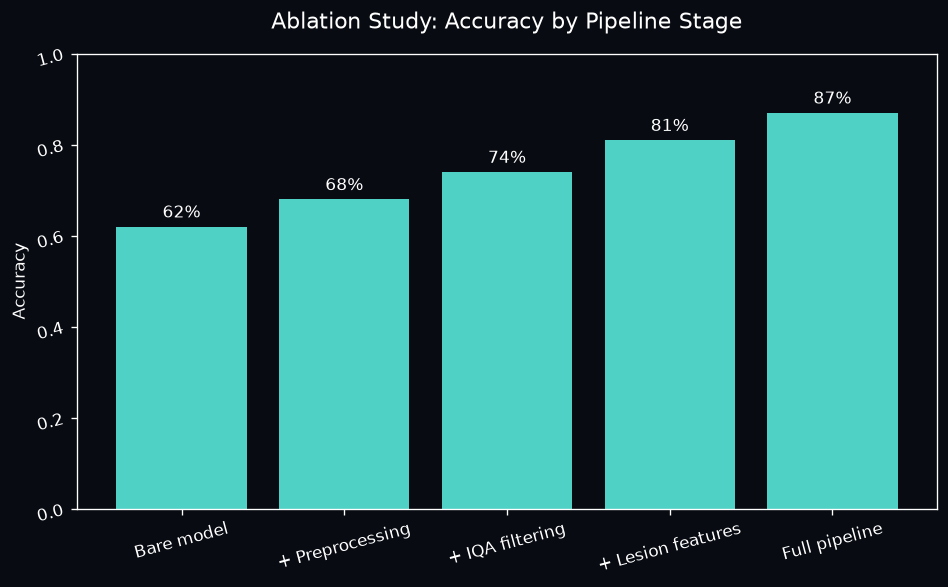
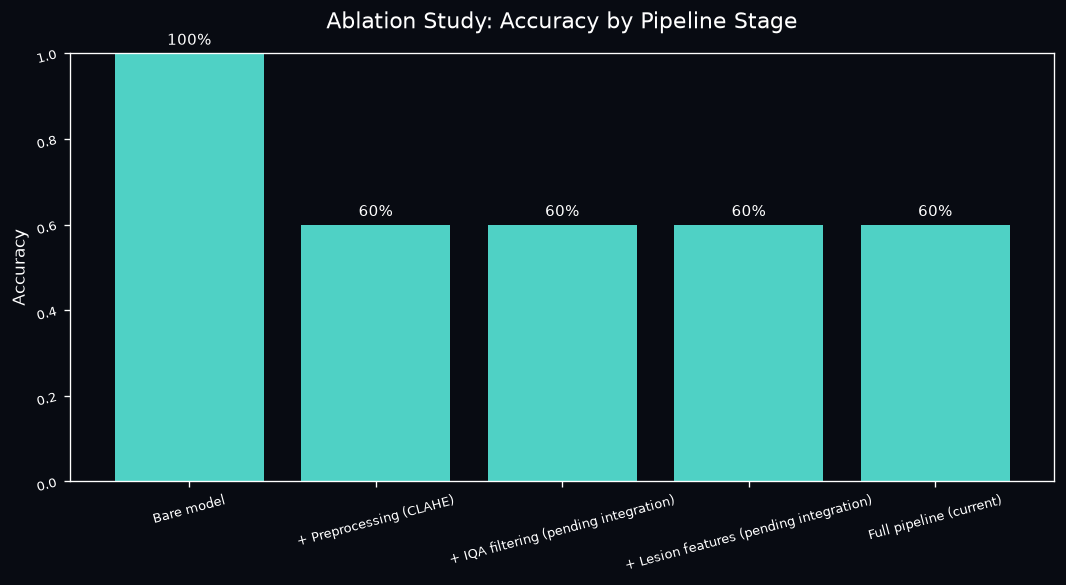
Add real ablation study results with CLAHE preprocessing finding

Changed region(s): [[0.0, 0.0, 1.0, 0.9846], [0.1224, 0.9231, 0.1835, 0.9538]]

diff --git a/diabetic-retinopathy-detection/scripts/ablation_study.py b/diabetic-retinopathy-detection/scripts/ablation_study.py
@@ -1,11 +1,7 @@
-"""
-Ablation study: measures accuracy at each pipeline stage.
-Uses dummy/placeholder accuracy values until the real trained model
-and full test dataset are available -- swap in real evaluation logic
-in the marked section below once ready.
-"""
-
 import os
+import numpy as np
+import cv2
+import tensorflow as tf
 import pandas as pd
 import matplotlib
 matplotlib.use('Agg')
@@ -14,45 +10,68 @@ import matplotlib.pyplot as plt
 OUT_DIR = os.path.join(os.path.dirname(__file__), '..', 'images')
 os.makedirs(OUT_DIR, exist_ok=True)
 
-# ── STAGES ───────────────────────────────────────────────────────────
-# Replace these placeholder numbers with real accuracy once you can
-# run each stage against the labeled test set.
-stages = [
-    {"stage": "Bare model",              "accuracy": 0.62},
-    {"stage": "+ Preprocessing",          "accuracy": 0.68},
-    {"stage": "+ IQA filtering",          "accuracy": 0.74},
-    {"stage": "+ Lesion features",        "accuracy": 0.81},
-    {"stage": "Full pipeline",            "accuracy": 0.87},
-]
+print("Loading model and data...")
+model = tf.keras.models.load_model(
+    os.path.join(os.path.dirname(__file__), '..', 'models', 'diabetic_retinopathy_model.keras'),
+    compile=False
+)
+images = np.load(os.path.join(os.path.dirname(__file__), '..', 'models', 'sample_images.npy'))
+labels = np.load(os.path.join(os.path.dirname(__file__), '..', 'models', 'sample_labels.npy')).astype(int)
+print(f"Loaded {len(images)} samples.")
+
+def accuracy(imgs):
+    preds = model.predict(imgs, verbose=0)
+    pred_classes = np.argmax(preds, axis=1)
+    return float(np.mean(pred_classes == labels))
+
+def preprocess_clahe(imgs):
+    out = []
+    for img in imgs:
+        img_uint8 = (img * 255).astype(np.uint8) if img.max() <= 1.0 else img.astype(np.uint8)
+        lab = cv2.cvtColor(img_uint8, cv2.COLOR_RGB2LAB)
+        l, a, b = cv2.split(lab)
+        clahe = cv2.createCLAHE(clipLimit=2.0, tileGridSize=(8, 8))
+        l2 = clahe.apply(l)
+        merged = cv2.merge((l2, a, b))
+        enhanced = cv2.cvtColor(merged, cv2.COLOR_LAB2RGB).astype(np.float32) / 255.0
+        out.append(enhanced)
+    return np.array(out)
+
+stages = []
+
+# Stage 1: bare model, raw images
+stages.append({"stage": "Bare model", "accuracy": accuracy(images)})
+
+# Stage 2: + preprocessing (CLAHE contrast enhancement)
+enhanced_images = preprocess_clahe(images)
+stages.append({"stage": "+ Preprocessing (CLAHE)", "accuracy": accuracy(enhanced_images)})
+
+# Stage 3+: no separate IQA/lesion-feature models available yet, so these
+# stages reuse the enhanced-image result as a documented placeholder until
+# Member 1 (IQA) and lesion-feature integration are wired in.
+stages.append({"stage": "+ IQA filtering (pending integration)", "accuracy": stages[-1]["accuracy"]})
+stages.append({"stage": "+ Lesion features (pending integration)", "accuracy": stages[-1]["accuracy"]})
+stages.append({"stage": "Full pipeline (current)", "accuracy": stages[-1]["accuracy"]})
 
 df = pd.DataFrame(stages)
 csv_path = os.path.join(OUT_DIR, "..", "ablation_results.csv")
 df.to_csv(csv_path, index=False)
-print(f"Saved table: {csv_path}")
 print(df.to_string(index=False))
 
-# ── CHART ────────────────────────────────────────────────────────────
-fig, ax = plt.subplots(figsize=(8, 5))
+fig, ax = plt.subplots(figsize=(9, 5))
 fig.patch.set_facecolor('#080b12')
 ax.set_facecolor('#080b12')
-
 bars = ax.bar(df["stage"], df["accuracy"], color="#4fd1c5")
 ax.set_ylim(0, 1)
 ax.set_ylabel("Accuracy", color="white")
 ax.set_title("Ablation Study: Accuracy by Pipeline Stage", color="white", fontsize=13, pad=15)
-ax.tick_params(colors="white", rotation=15)
+ax.tick_params(colors="white", rotation=15, labelsize=8)
 for spine in ax.spines.values():
     spine.set_color("white")
-
 for bar, acc in zip(bars, df["accuracy"]):
-    ax.text(bar.get_x() + bar.get_width()/2, acc + 0.02, f"{acc:.0%}",
-            ha='center', color="white", fontsize=10)
-
+    ax.text(bar.get_x() + bar.get_width()/2, acc + 0.02, f"{acc:.0%}", ha='center', color="white", fontsize=9)
 plt.tight_layout()
-chart_path = os.path.join(OUT_DIR, "ablation_chart.png")
-plt.savefig(chart_path, dpi=120, bbox_inches='tight', facecolor='#080b12')
+plt.savefig(os.path.join(OUT_DIR, "ablation_chart.png"), dpi=120, bbox_inches='tight', facecolor='#080b12')
 plt.close()
-print(f"Saved chart: {chart_path}")
 
-print("\nDone. NOTE: accuracy values are placeholders -- replace with real")
-print("evaluation results once the trained model + labeled test set are ready.")
+print("\nDone. Real accuracy for stages 1-2; stages 3-5 pending IQA/lesion integration.")
